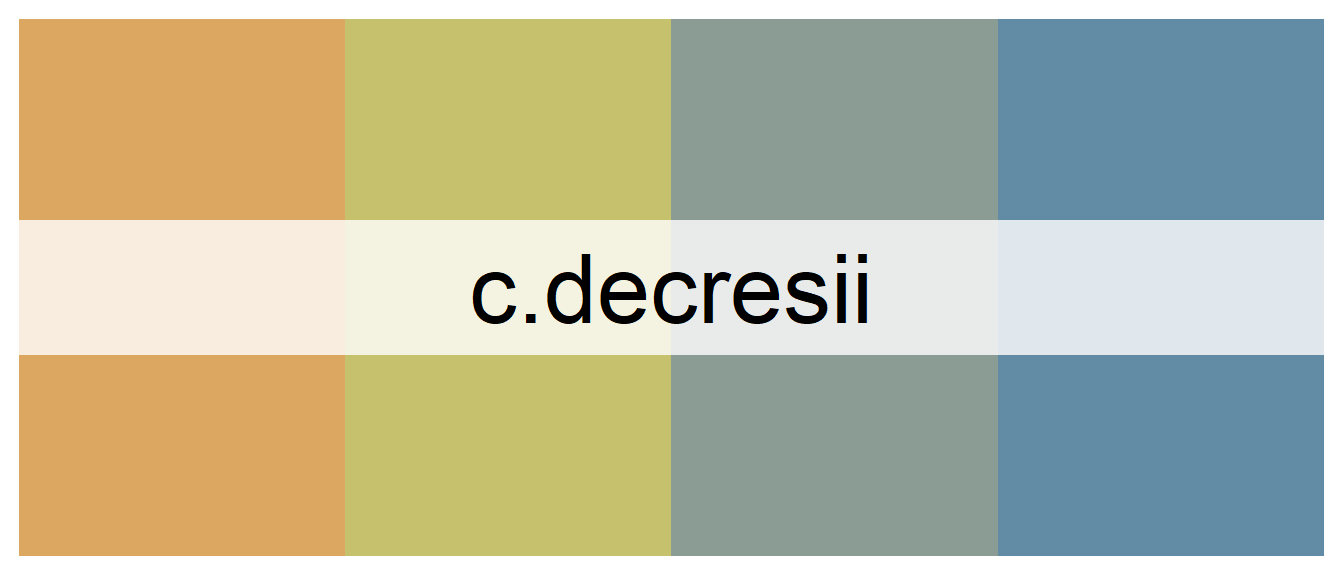
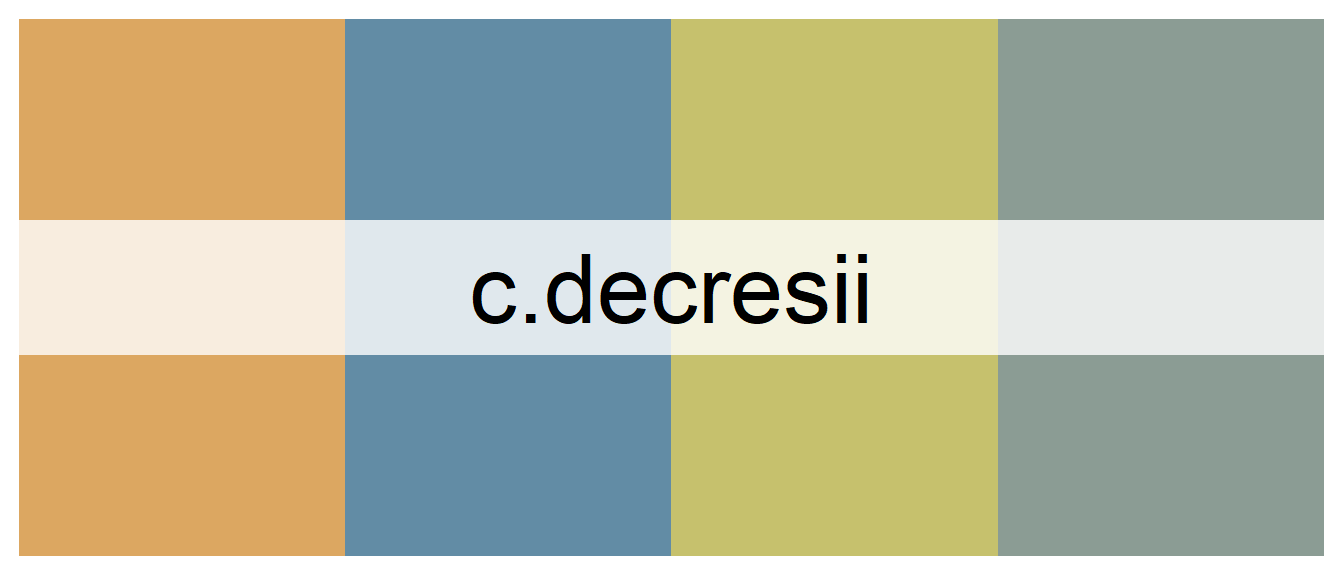
v0.2.1 added & fixed discrete palette functionality

diff --git a/index.html b/index.html
@@ -476,11 +476,11 @@ names(oz_palettes$lizards) # See all lizard palettes
 <pre class="r"><code>oz_palettes[[&quot;warramaba&quot;]][[&quot;whitei&quot;]] # Subset the palette for Warramaba whitei, format: [[theme list]][[palette list]]
      [,1]      [,2]      [,3]      [,4]      [,5]      [,6]     
 [1,] &quot;#E5A430&quot; &quot;#9C7210&quot; &quot;#D7A8B8&quot; &quot;#BAB24F&quot; &quot;#392821&quot; &quot;#9B391B&quot;
-[2,] &quot;1&quot;       &quot;2&quot;       &quot;3&quot;       &quot;4&quot;       &quot;5&quot;       &quot;6&quot;      
+[2,] &quot;1&quot;       &quot;3&quot;       &quot;6&quot;       &quot;5&quot;       &quot;4&quot;       &quot;2&quot;      
 oz_palettes$warramaba$whitei # does the same as above but using list names
      [,1]      [,2]      [,3]      [,4]      [,5]      [,6]     
 [1,] &quot;#E5A430&quot; &quot;#9C7210&quot; &quot;#D7A8B8&quot; &quot;#BAB24F&quot; &quot;#392821&quot; &quot;#9B391B&quot;
-[2,] &quot;1&quot;       &quot;2&quot;       &quot;3&quot;       &quot;4&quot;       &quot;5&quot;       &quot;6&quot;      </code></pre>
+[2,] &quot;1&quot;       &quot;3&quot;       &quot;6&quot;       &quot;5&quot;       &quot;4&quot;       &quot;2&quot;      </code></pre>
 <div id="understanding-the-structure-of-the-palette" class="section level2">
 <h2>Understanding the structure of the palette</h2>
 <p>Lists within lists may seem daunting but you’d rarely need to access the palettes individually. It is also easy enough to add your own palettes if you are comfortable with manually editing package functions in R.</p>
